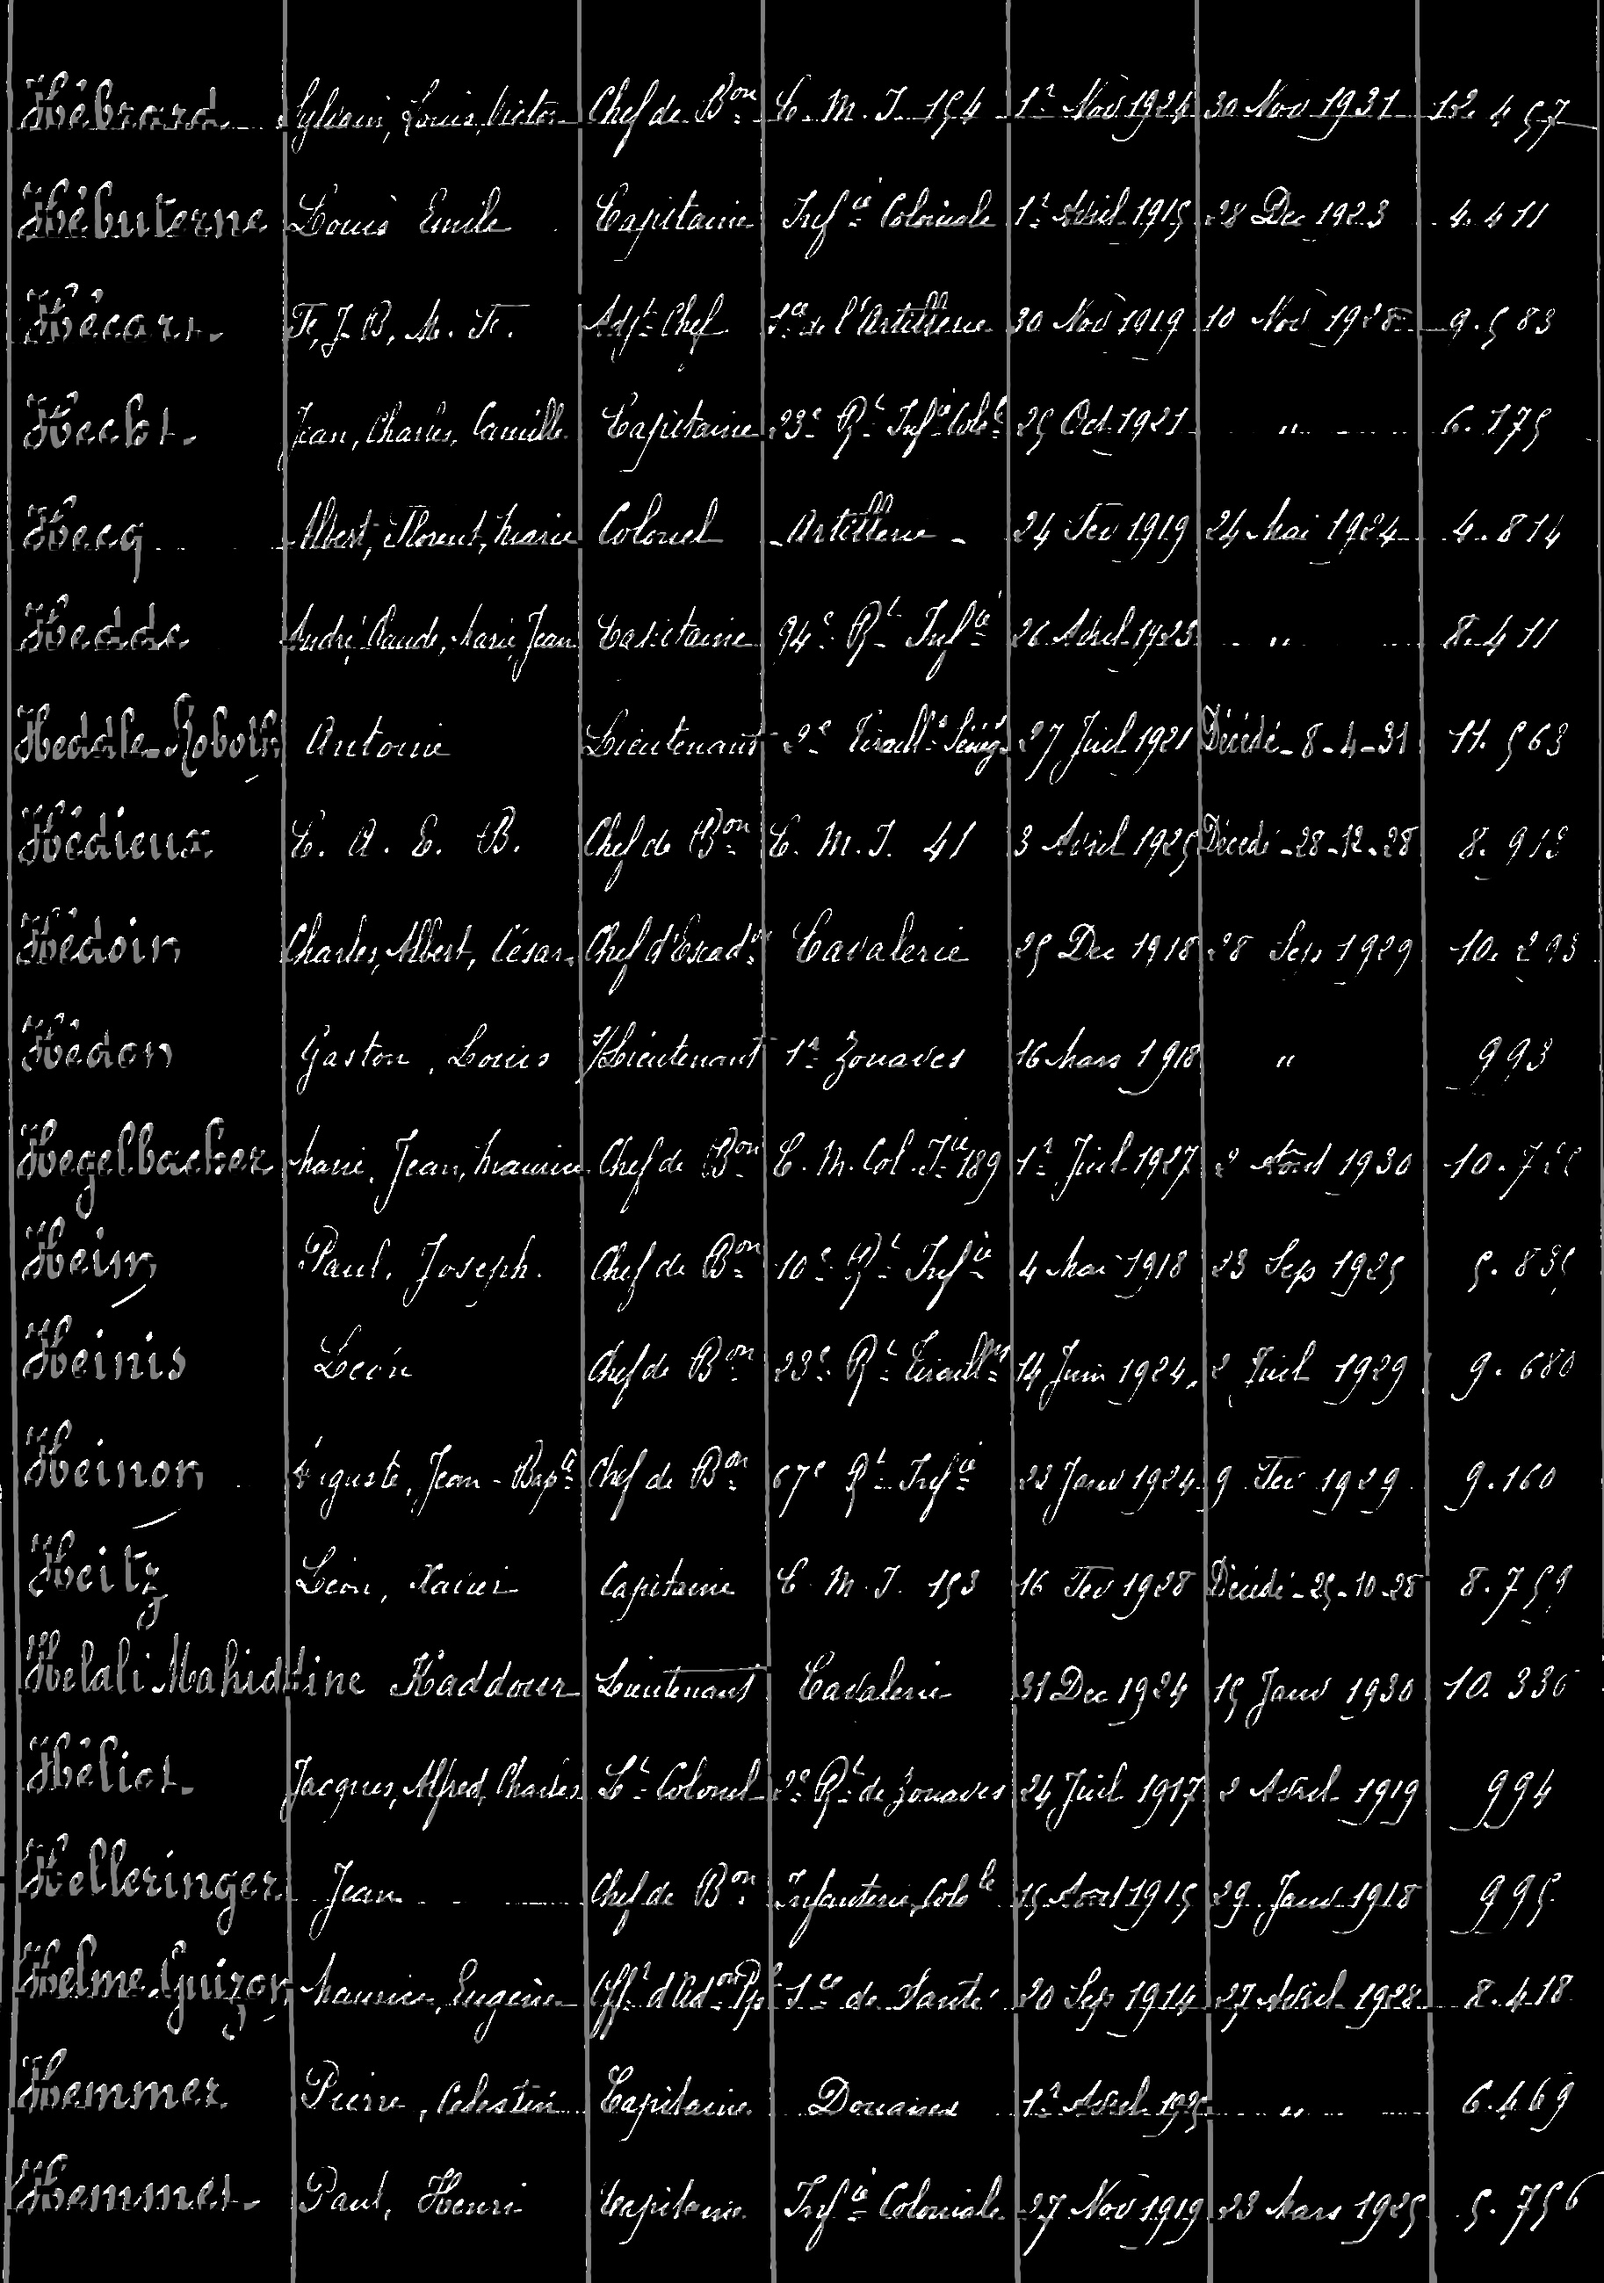
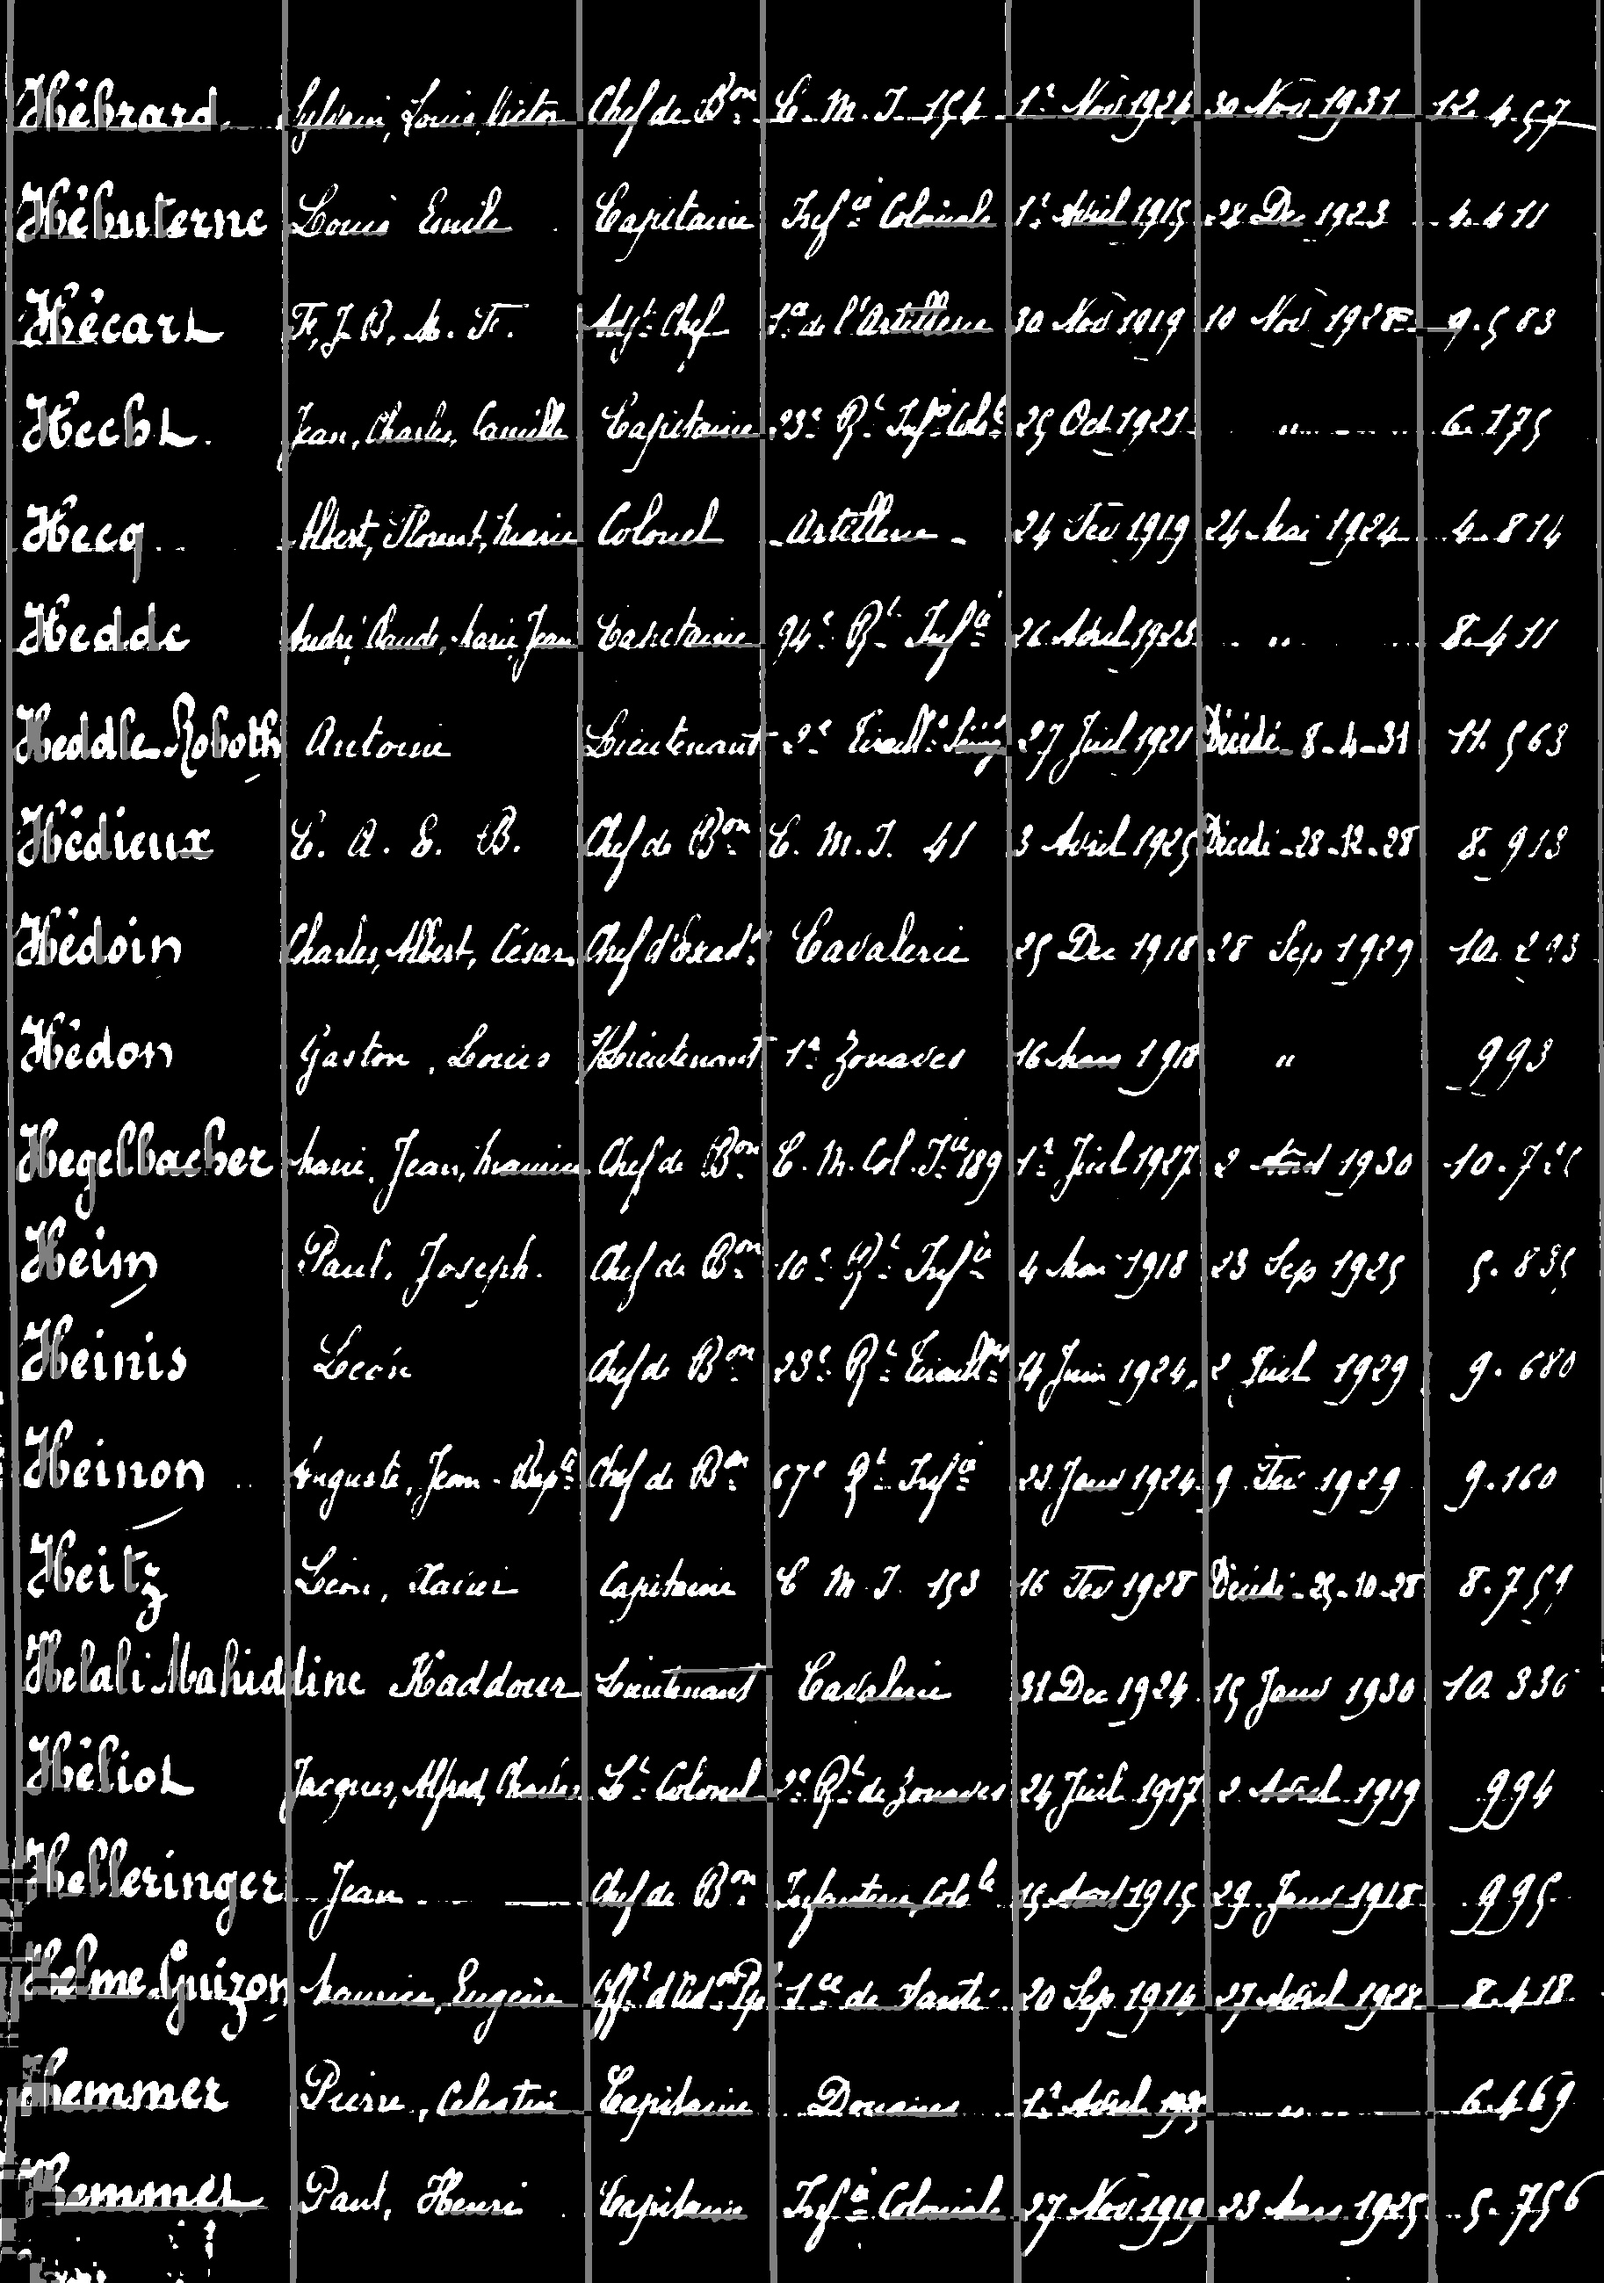
crop rows function

diff --git a/app.py b/app.py
@@ -3,6 +3,19 @@ import cv2
 import numpy as np
 from PIL import Image
 import os
+import subprocess
+from skimage.io import imread
+from skimage.color import rgb2gray
+from skimage.filters import threshold_otsu
+from heapq import *
+from skimage import io
+import json
+
+
+
+
+
+
 
 # Function to process the image
 def process_image(image, blur_kernel, threshold_value, remove_noise_kernel,
@@ -14,7 +27,8 @@ def process_image(image, blur_kernel, threshold_value, remove_noise_kernel,
     blurred = cv2.blur(gray, (blur_kernel, blur_kernel))
 
     # Apply threshold
-    _, thresh = cv2.threshold(blurred, threshold_value, 255, cv2.THRESH_BINARY)
+    thresh = cv2.threshold(blurred, threshold_value, 255, cv2.THRESH_BINARY + cv2.THRESH_OTSU)[1]
+
 
     # Invert the image
     inverted = cv2.bitwise_not(thresh)
@@ -46,6 +60,174 @@ def process_image(image, blur_kernel, threshold_value, remove_noise_kernel,
 
 
 
+
+def crop_rows(processed_image, filename_without_extension ):
+    
+    output_directory = "output_directory"
+
+    if processed_image.ndim > 2: # is this is a rgb/rgba image
+        img = rgb2gray(processed_image)
+
+    def horizontal_projections(sobel_image):
+        return np.sum(sobel_image, axis=1)  
+
+    def binarize_image(image):
+        threshold = threshold_otsu(img)
+        return image < threshold
+        
+    binarized_image = binarize_image(img)
+    hpp = horizontal_projections(binarized_image)
+
+    # find the midway where we can make a threshold and extract the peaks regions
+    def find_peak_regions(hpp, threshold):
+        
+        peaks = []
+        for i, hppv in enumerate(hpp):
+            if hppv < threshold:
+                peaks.append([i, hppv])
+        return peaks
+
+    # find the threshold from where anything above is considered a peak region
+    # using the average for now but this needs further research. This may or may not work on all images.
+    threshold = (np.max(hpp)-np.min(hpp))/2
+    peaks = find_peak_regions(hpp, threshold)
+
+    peaks_indexes = np.array(peaks)[:, 0].astype(int)
+
+    segmented_img = np.copy(img)
+    r, c = segmented_img.shape
+    for ri in range(r):
+        if ri in peaks_indexes:
+            segmented_img[ri, :] = 0
+
+    # group the peaks through which we will be doing path planning.
+    diff_between_consec_numbers = np.diff(peaks_indexes) # difference between consecutive numbers
+    indexes_with_larger_diff = np.where(diff_between_consec_numbers > 1)[0].flatten()
+    peak_groups = np.split(peaks_indexes, indexes_with_larger_diff)
+    # remove very small regions, these are basically errors in algorithm because of our threshold value
+    peak_groups = [item for item in peak_groups if len(item) > 10]
+
+
+    #a star path planning algorithm 
+    def heuristic(a, b):
+        return (b[0] - a[0]) ** 2 + (b[1] - a[1]) ** 2
+
+    def astar(array, start, goal):
+
+        neighbors = [(0,1),(0,-1),(1,0),(-1,0),(1,1),(1,-1),(-1,1),(-1,-1)]
+        close_set = set()
+        came_from = {}
+        gscore = {start:0}
+        fscore = {start:heuristic(start, goal)}
+        oheap = []
+
+        heappush(oheap, (fscore[start], start))
+        
+        while oheap:
+
+            current = heappop(oheap)[1]
+
+            if current == goal:
+                data = []
+                while current in came_from:
+                    data.append(current)
+                    current = came_from[current]
+                return data
+
+            close_set.add(current)
+            for i, j in neighbors:
+                neighbor = current[0] + i, current[1] + j            
+                tentative_g_score = gscore[current] + heuristic(current, neighbor)
+                if 0 <= neighbor[0] < array.shape[0]:
+                    if 0 <= neighbor[1] < array.shape[1]:                
+                        if array[neighbor[0]][neighbor[1]] == 1:
+                            continue
+                    else:
+                        # array bound y walls
+                        continue
+                else:
+                    # array bound x walls
+                    continue
+                    
+                if neighbor in close_set and tentative_g_score >= gscore.get(neighbor, 0):
+                    continue
+                    
+                if  tentative_g_score < gscore.get(neighbor, 0) or neighbor not in [i[1]for i in oheap]:
+                    came_from[neighbor] = current
+                    gscore[neighbor] = tentative_g_score
+                    fscore[neighbor] = tentative_g_score + heuristic(neighbor, goal)
+                    heappush(oheap, (fscore[neighbor], neighbor))
+                    
+        return []
+    
+    print("Peak groups found")
+    
+    # now that everything is cleaner, its time to segment all the lines using the A* algorithm
+    def get_binary(img):
+        mean = np.mean(img)
+        if mean == 0.0 or mean == 1.0:
+            return img
+
+        thresh = threshold_otsu(img)
+        binary = img <= thresh
+        binary = binary * 1
+        return binary
+
+    binary_image = get_binary(img)
+    segment_separating_lines = []
+    
+    for i, sub_image_index in enumerate(peak_groups):
+        nmap = binary_image[sub_image_index[0]:sub_image_index[-1]]
+        path = np.array(astar(nmap, (int(nmap.shape[0]/2), 0), (int(nmap.shape[0]/2),nmap.shape[1]-1)))
+        offset_from_top = sub_image_index[0]
+        path[:,0] += offset_from_top
+        segment_separating_lines.append(path)
+
+    cluster_of_interest = peak_groups[1]
+
+    offset_from_top = cluster_of_interest[0]
+
+    nmap = binary_image[cluster_of_interest[0]:cluster_of_interest[-1],:]
+    
+    path = np.array(astar(nmap, (int(nmap.shape[0]/2), 0), (int(nmap.shape[0]/2),nmap.shape[1]-1)))
+    
+    offset_from_top = cluster_of_interest[0]
+
+    
+    print("splitting")
+    
+    # splitting algorithm
+
+    seperated_images = []
+    for index, line_segments in enumerate(segment_separating_lines):
+        if index < len(segment_separating_lines)-1:
+            lower_line = np.min(segment_separating_lines[index][:,0])
+            upper_line = np.max(segment_separating_lines[index+1][:,0])
+            seperated_images.append(processed_image[lower_line:upper_line])
+
+    # Iterate over the separated images and save them with unique names
+    for index, line_image in enumerate(seperated_images):
+        save_filename = os.path.join(output_directory, 
+                                     f"{os.path.splitext(filename_without_extension)[0]}_line_{index+1}.png")
+        cv2.imwrite(save_filename, line_image)
+
+
+    # Print a message indicating the successful saving of images
+    print(f"{len(seperated_images)} images saved.")
+
+
+
+
+
+
+
+
+
+
+
+
+
+
 # Streamlit app
 def main():
     st.title("Image Processing App")
@@ -59,7 +241,7 @@ def main():
 
         # Sidebar sliders for adjustable variables
         blur_kernel = st.sidebar.slider("Blur Kernel Size", min_value=1, max_value=15, value=5)
-        threshold_value = st.sidebar.slider("Threshold Value", min_value=0, max_value=255, value=127)
+        threshold_value = st.sidebar.slider("Threshold Value", min_value=0, max_value=255, value=1)
         
         
         erode_vertical_iterations = st.sidebar.slider("Vertical Line Erosion Iterations", min_value=1, max_value=20, value=10)
@@ -67,10 +249,14 @@ def main():
 
         remove_noise_kernel = st.sidebar.slider("Remove Noise", min_value=1, max_value=100, value=10)
 
+        
+
         # Process the image
         processed_image = process_image(image, blur_kernel, threshold_value, remove_noise_kernel,
                                          erode_vertical_iterations, erode_horizontal_iterations)
         st.image(processed_image, caption="Processed Image", use_column_width=True)
+
+       
 
         # Button to save the processed image
         if st.button('Save Processed Image'):
@@ -82,6 +268,14 @@ def main():
             output_filename = filename_without_extension + "_processed.jpg"
             cv2.imwrite(output_filename, processed_image)
             st.success(f"Processed image saved as {output_filename} successfully.")
+
+
+
+         # Button to crop rows
+        if st.sidebar.button("Crop Rows"):
+            zoned_image = crop_rows(processed_image, filename_without_extension)
+
+
 
 if __name__ == "__main__":
     main()
